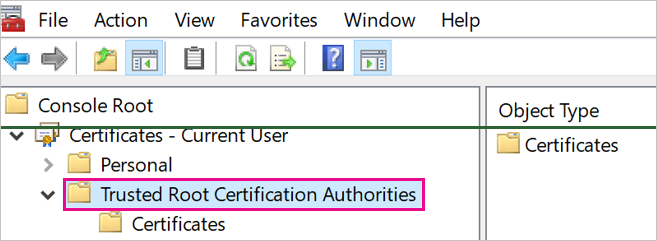
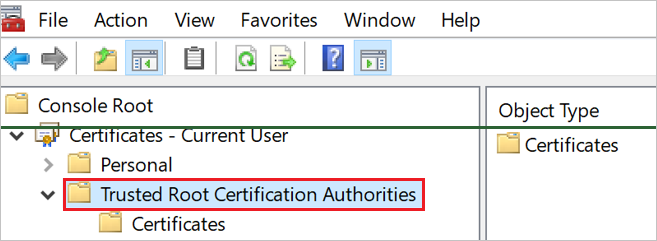
Updated SAP HANA encryption freshness

Changed region(s): [[0.0913, 0.7261, 0.6697, 0.9004]]

diff --git a/powerquery-docs/connectors/sap-hana/sap-hana-encryption.md b/powerquery-docs/connectors/sap-hana/sap-hana-encryption.md
@@ -2,10 +2,10 @@
 title: SAP HANA encryption
 description: Learn how to encrypt the connection when connecting to an SAP HANA server from Power Query using SAML SSO.
 author: davidiseminger
-ms.author: davidi
+ms.author: dougklo
 ms.custom: seodec18
 ms.topic: how-to
-ms.date: 2/4/2022
+ms.date: 7/21/2025
 ms.subservice: connectors
 ---
 
@@ -13,7 +13,7 @@ ms.subservice: connectors
 
 We recommend that you encrypt connections to an SAP HANA server from Power Query Desktop and Power Query Online. You can enable HANA encryption using SAP's proprietary CommonCryptoLib (formerly known as sapcrypto) library. SAP recommends using CommonCryptoLib.
 
->[!Note]
+> [!NOTE]
 >SAP no longer supports the OpenSSL, and as a result, Microsoft also has discontinued its support. Use CommonCryptoLib instead.
 
 This article provides an overview of enabling encryption using CommonCryptoLib, and references some specific areas of the SAP documentation. We update content and links periodically, but for comprehensive instructions and support, always refer to the official SAP documentation. Use CommonCryptoLib to set up encryption instead of OpenSSL; for steps to do so, go to [How to Configure TLS/SSL in SAP HANA 2.0](https://blogs.sap.com/2018/11/13/how-to-configure-tlsssl-in-sap-hana-2.0/). For steps on how to migrate from OpenSSL to CommonCryptoLib, go to [SAP Note 2093286](https://launchpad.support.sap.com/#/notes/2093286) (s-user required).
@@ -27,7 +27,7 @@ There are four phases to enabling encryption for SAP HANA. We cover these phases
 
 Ensure your HANA server is configured to use CommonCryptoLib as its cryptographic provider.
 
-:::image type="content" source="common-crypto.png" alt-text="OpenSSL cryptographic provider.":::
+:::image type="content" source="common-crypto.png" alt-text="Screenshot with the CommonCryptoLib cryptographic provider emphasized.":::
 
 ## Create a certificate signing request
 
@@ -47,13 +47,11 @@ This command creates a certificate signing request and private key. Fill in \<_H
 
 ## Get the certificate signed
 
-Get the certificate signed by a certificate authority (CA) that is trusted by the client(s) you'll use to connect to the HANA server.
+Get the certificate signed by a certificate authority (CA) that is trusted by the client(s) you use to connect to the HANA server.
 
 1. If you already have a trusted company CA (represented by CA\_Cert.pem and CA\_Key.pem in the following example), sign the certificate request by running the following command:
 
     **openssl x509 -req -days 365 -in csr.txt -CA CA_Cert.pem -CAkey CA_Key.pem -CAcreateserial -out cert.pem**
-
-
 
 2. Copy the new file, cert.pem, to the server.
 
@@ -67,20 +65,20 @@ Get the certificate signed by a certificate authority (CA) that is trusted by th
 
     The client must trust the CA used to sign the HANA server's X509 certificate before an encrypted connection can be made to the HANA server from the client's machine.
 
-    There are various ways to ensure this trust relationship exists using Microsoft Management Console (mmc) or the command line. You can import the CA's X509 certificate (cert.pem) into the **Trusted Root Certification Authorities** folder for the user that will establish the connection, or into the same folder for the client machine itself, if that is desirable.
+    There are various ways to ensure this trust relationship exists using Microsoft Management Console (mmc) or the command line. You can import the CA's X509 certificate (cert.pem) into the **Trusted Root Certification Authorities** folder for the user that establishes the connection, or into the same folder for the client machine itself, if that is desirable.
 
-    :::image type="content" source="trusted-root-certification.png" alt-text="Trusted Root Certification Authorities folder.":::
+    :::image type="content" source="trusted-root-certification.png" alt-text="Screenshot of the Microsoft Management Console with the Trusted Root Certification Authorities folder emphasized.":::
 
     You must first convert cert.pem into a .crt file before you can import the certificate into the Trusted Root Certification Authorities folder.
 
 ## Test the connection
 
->[!Note]
+> [!NOTE]
 > Before using the procedures in this section, you must be signed in to Power BI using your admin account credentials.
 
-Before you can validate a server certificate in the Power BI service online, you must have a data source already set up for the [on-premises data gateway](/data-integration/gateway/). If you don't already have a data source set up to test the connection, you'll have to create one. To set up the data source on the gateway:
+Before you can validate a server certificate in the Power BI service online, you must have a data source already set up for the [on-premises data gateway](/data-integration/gateway/). If you don't already have a data source set up to test the connection, you have to create one. To set up the data source on the gateway:
 
-1. From the Power BI service, select the :::image type="content" source="setup.png" alt-text="setup icon."::: setup icon.
+1. From the Power BI service, select the :::image type="icon" source="setup.png"::: setup icon.
 
 2. From the drop-down list, select **Manage gateways**.
 
@@ -102,20 +100,20 @@ Test the connection in Power BI Desktop or the Power BI service.
 
     - Power BI Desktop
 
-        :::image type="content" source="validate-server-certificate-service.png" alt-text="Validate server certificate - service.":::
+        :::image type="content" source="validate-server-certificate-service.png" alt-text="Screenshot of the Power BI Desktop validate server certificate information.":::
 
     - Power BI service
 
-        :::image type="content" source="validate-server-certificate-desktop.png" alt-text="Validate server certificate - desktop.":::
+        :::image type="content" source="validate-server-certificate-desktop.png" alt-text="Screenshot of the Power BI service validate server certificate information.":::
 
 2. Verify that you can successfully establish an encrypted connection to the server with the **Validate server certificate** option enabled, by loading data in Power BI Desktop or refreshing a published report in Power BI service.
 
-You'll note that only the **SSL crypto provider** information is required. However, your implementation might require that you also use the key store and trust store. For more information about these stores and how to create them, go to [Client-Side TLS/SSL Connection Properties (ODBC)](https://help.sap.com/viewer/b3ee5778bc2e4a089d3299b82ec762a7/2.0.03/en-US/0ae2b75266df44499d8fed8035e024ad.html).
+You should note that only the **SSL crypto provider** information is required. However, your implementation might require that you also use the key store and trust store. For more information about these stores and how to create them, go to [Client-Side TLS/SSL Connection Properties (ODBC)](https://help.sap.com/viewer/b3ee5778bc2e4a089d3299b82ec762a7/2.0.03/en-US/0ae2b75266df44499d8fed8035e024ad.html).
 
 ## Additional information
 
 - [Server-Side TLS/SSL Configuration Properties for External Communication (JDBC/ODBC)](https://help.sap.com/viewer/b3ee5778bc2e4a089d3299b82ec762a7/2.0.04/en-US/64065bc94ccb4f64bfb544686db23e60.html)
 
-## Next steps
+## Related content
 
 - [Configure SSL for ODBC client access to SAP HANA](configure-odbc-sap-hana.md)
